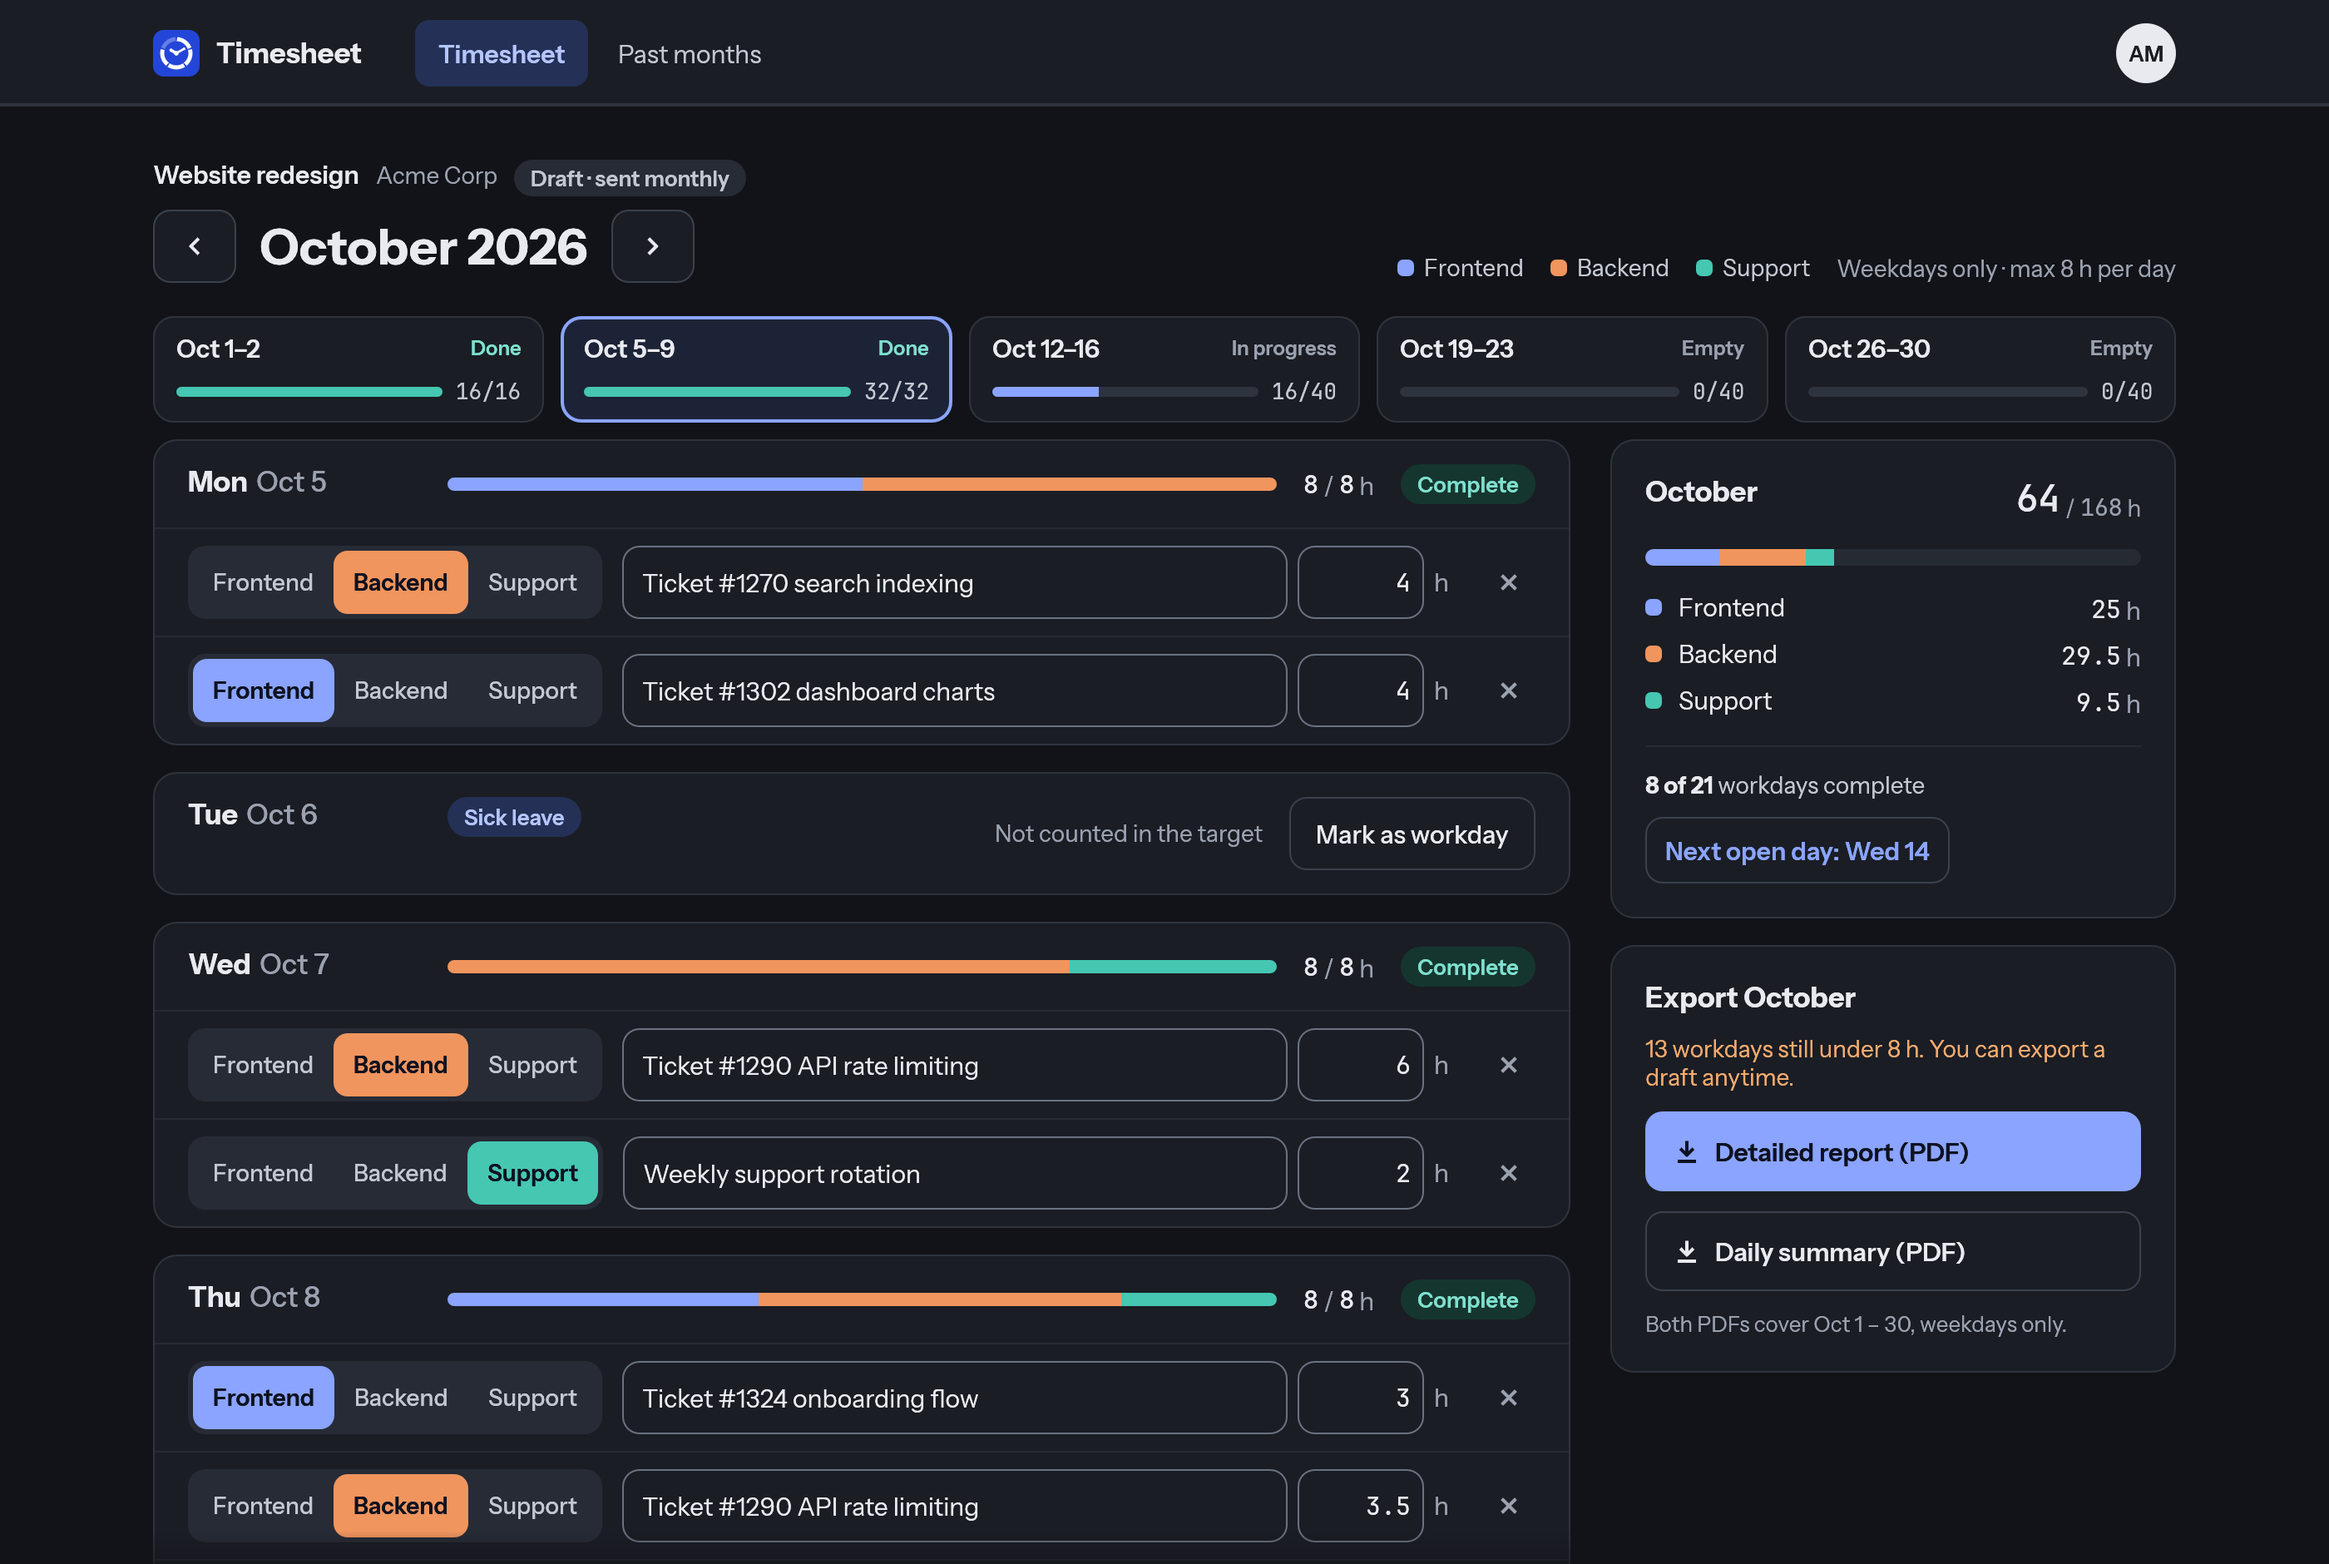
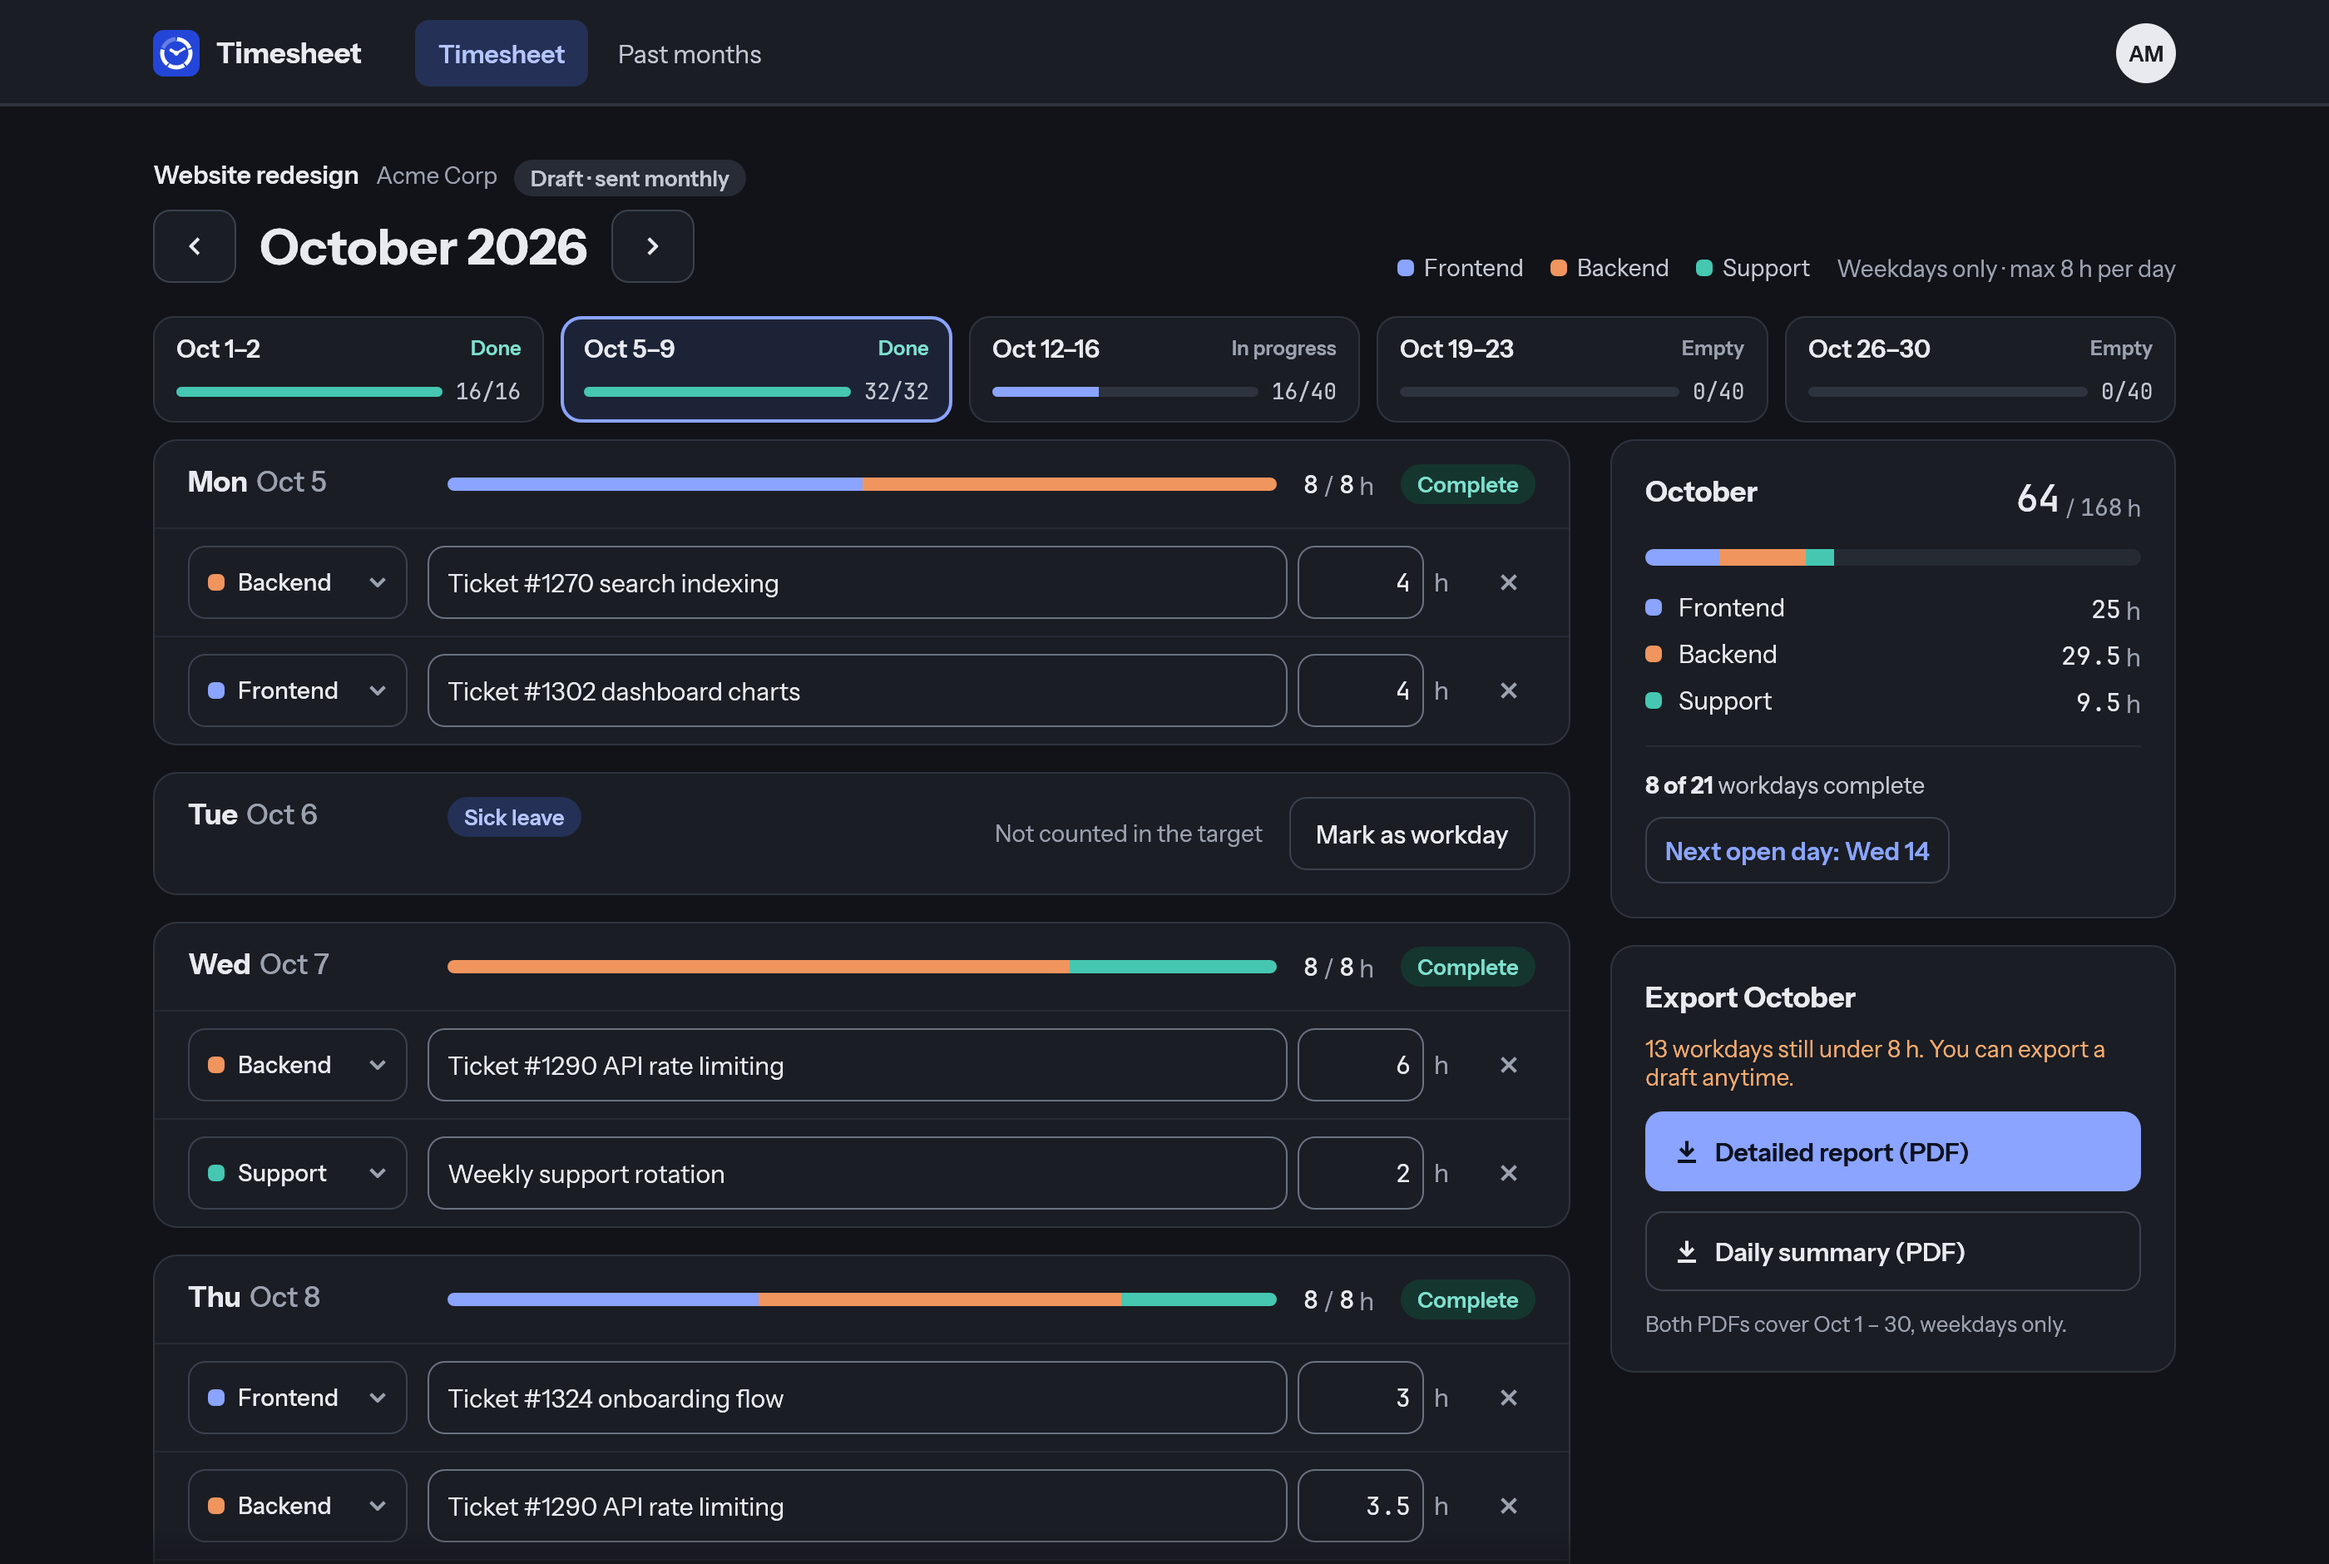
feat(ui): pick a line's task type from a compact menu
Each line showed a three-segment toggle with a solid saturated fill,
which made the timesheet loud. A line now shows a 132 px outline button
with the task type's swatch and name; a click opens a menu of the three
types with a check on the current one. The day bar still shows the mix.

The selected-toggle fills (`kind_toggles`) are no longer used, so they
leave the palette and the contrast test.

Changed region(s): [[0.0621, 0.8638, 0.4039, 0.9872], [0.0621, 0.3394, 0.4039, 0.4628], [0.0932, 0.6479, 0.4039, 0.7713]]

diff --git a/src/ui/widgets.rs b/src/ui/widgets.rs
@@ -591,6 +591,102 @@ pub(super) fn select_field<T: Copy + PartialEq>(
     });
 }
 
+/// 132 px outline button with the task type's swatch and name; a click opens a menu of all task
+/// types. Returns true when the task type changed.
+pub(super) fn kind_menu(
+    ui: &mut Ui,
+    value: &mut Kind,
+    id_salt: impl egui::AsIdSalt,
+    a11y: &str,
+) -> bool {
+    let c = colors(ui);
+    let font = sans(14.0, W::Medium);
+    let (_, rect) = ui.allocate_space(vec2(132.0, 44.0));
+    let response = ui.interact(rect, ui.id().with(id_salt), Sense::click());
+    let open = egui::Popup::is_id_open(ui.ctx(), egui::Popup::default_response_id(&response));
+    response.widget_info(|| {
+        WidgetInfo::labeled(
+            WidgetType::ComboBox,
+            true,
+            format!("{a11y}: {}", value.label()),
+        )
+    });
+    if ui.is_rect_visible(rect) {
+        let p = ui.painter();
+        let fill = if response.hovered() || open {
+            c.bg
+        } else {
+            c.surface
+        };
+        p.rect_filled(rect, 10, fill);
+        p.rect_stroke(
+            rect,
+            10,
+            Stroke::new(1.0, c.button_border),
+            StrokeKind::Inside,
+        );
+        focus_ring(ui, &response, rect, 10);
+        paint_kind_label(p, rect, 12.0, *value, font.clone(), c);
+        Icon::ChevronDown.paint(
+            p,
+            pos2(rect.right() - 18.0, rect.center().y),
+            16.0,
+            c.muted,
+            2.0,
+        );
+    }
+    let mut changed = false;
+    egui::Popup::menu(&response).width(180.0).show(|ui| {
+        ui.spacing_mut().item_spacing.y = 2.0;
+        for kind in Kind::ALL {
+            let selected = *value == kind;
+            let (rect, item) =
+                ui.allocate_exact_size(vec2(ui.available_width(), 36.0), Sense::click());
+            item.widget_info(|| {
+                WidgetInfo::selected(WidgetType::RadioButton, true, selected, kind.label())
+            });
+            let p = ui.painter();
+            if item.hovered() || item.has_focus() {
+                p.rect_filled(rect, 8, c.chip);
+            }
+            paint_kind_label(p, rect, 10.0, kind, font.clone(), c);
+            if selected {
+                Icon::Check.paint(
+                    p,
+                    pos2(rect.right() - 18.0, rect.center().y),
+                    16.0,
+                    c.ink,
+                    2.0,
+                );
+            }
+            if item.on_hover_cursor(CursorIcon::PointingHand).clicked() && !selected {
+                *value = kind;
+                changed = true;
+            }
+        }
+    });
+    response.on_hover_cursor(CursorIcon::PointingHand);
+    changed
+}
+
+/// Task-type swatch followed by its name, `pad` in from the left of `rect`.
+fn paint_kind_label(p: &Painter, rect: Rect, pad: f32, kind: Kind, font: FontId, c: &Palette) {
+    let swatch = Rect::from_min_size(
+        pos2(rect.left() + pad, rect.center().y - 5.0),
+        vec2(10.0, 10.0),
+    );
+    p.rect_filled(swatch, 3, c.kind(kind));
+    let galley = p.layout_no_wrap(kind.label().to_owned(), font, c.ink);
+    p.galley(
+        pos2(
+            swatch.right() + 8.0,
+            rect.center().y - galley.size().y / 2.0,
+        ),
+        galley,
+        c.ink,
+    );
+}
+
 /// Full-width radio group of 36 px segments on a `chip` track; the selected one is raised.
 /// Returns true when the selection changed.
 pub(super) fn segmented<T: Copy + PartialEq>(

diff --git a/src/ui/timesheet.rs b/src/ui/timesheet.rs
@@ -512,40 +512,12 @@ fn day_card(ui: &mut Ui, data: &mut Data, date: NaiveDate, actions: &mut Vec<Act
                 })
                 .show(ui, |ui| {
                     ui.horizontal(|ui| {
-                        // Task type toggle.
-                        Frame::new()
-                            .fill(c.chip)
-                            .corner_radius(10)
-                            .inner_margin(Margin::same(3))
-                            .show(ui, |ui| {
-                                ui.horizontal(|ui| {
-                                    ui.spacing_mut().item_spacing.x = 0.0;
-                                    for kind in Kind::ALL {
-                                        let on = entry.kind == kind;
-                                        let mut b = Btn::base(c, kind.label()).min(0.0, 38.0).font(
-                                            sans(14.0, if on { W::SemiBold } else { W::Medium }),
-                                        );
-                                        b.pad = 12.0;
-                                        b.radius = 8;
-                                        b.a11y = Some(format!(
-                                            "{}, {day_name} line {line_no}",
-                                            kind.label()
-                                        ));
-                                        if on {
-                                            b.fill = c.kind_toggle(kind);
-                                            b.hover_fill = b.fill;
-                                            b.fg = c.on_accent;
-                                        } else {
-                                            b.hover_fill = c.border;
-                                            b.fg = c.ink2;
-                                        }
-                                        if b.show(ui).clicked() && !on {
-                                            entry.kind = kind;
-                                            dirty = true;
-                                        }
-                                    }
-                                });
-                            });
+                        dirty |= kind_menu(
+                            ui,
+                            &mut entry.kind,
+                            ("kind", entry.id),
+                            &format!("Task type, {day_name} line {line_no}"),
+                        );
                         ui.with_layout(Layout::right_to_left(Align::Center), |ui| {
                             let remove = Btn::base(c, "")
                                 .icon(Icon::Close, 16.0)

diff --git a/src/ui/theme.rs b/src/ui/theme.rs
@@ -24,7 +24,7 @@ pub(super) struct Palette {
     pub(super) accent_strong: Color32,
     pub(super) accent_soft: Color32,
     pub(super) accent_tint: Color32,
-    /// Text and icons on `accent`, `ok` and task-type fills.
+    /// Text and icons on `accent` and `ok` fills.
     pub(super) on_accent: Color32,
     pub(super) selection: Color32,
     pub(super) danger: Color32,
@@ -40,8 +40,6 @@ pub(super) struct Palette {
     pub(super) disabled: Color32,
     /// Swatches and bars, in [`Kind::ALL`] order.
     pub(super) kinds: [Color32; 3],
-    /// Fills of selected task-type toggles, in [`Kind::ALL`] order.
-    pub(super) kind_toggles: [Color32; 3],
 }
 
 pub(super) const fn pdf_kind(kind: Kind) -> Color32 {
@@ -88,12 +86,6 @@ pub(super) const LIGHT: Palette = Palette {
         pdf_kind(Kind::Backend),
         pdf_kind(Kind::Support),
     ],
-    // Backend is darkened for white text.
-    kind_toggles: [
-        pdf_kind(Kind::Frontend),
-        hex(0xA44A0C),
-        pdf_kind(Kind::Support),
-    ],
 };
 
 /// Same hues as [`LIGHT`], lightened to read on dark surfaces; fills carry dark text.
@@ -127,7 +119,6 @@ pub(super) const DARK: Palette = Palette {
     warn_border: hex(0x8C5B30),
     disabled: hex(0x6B7180),
     kinds: [hex(0x8AA4FF), hex(0xF0955E), hex(0x45C7B2)],
-    kind_toggles: [hex(0x8AA4FF), hex(0xF0955E), hex(0x45C7B2)],
 };
 
 impl Palette {
@@ -137,10 +128,6 @@ impl Palette {
 
     pub(super) fn kind(&self, kind: Kind) -> Color32 {
         self.kinds[kind as usize]
-    }
-
-    pub(super) fn kind_toggle(&self, kind: Kind) -> Color32 {
-        self.kind_toggles[kind as usize]
     }
 }
 
@@ -343,9 +330,6 @@ mod tests {
                 ] {
                     pairs.push((fg_name, fg, bg_name, bg));
                 }
-            }
-            for kind in Kind::ALL {
-                pairs.push(("on_accent", c.on_accent, kind.label(), c.kind_toggle(kind)));
             }
             for (fg_name, fg, bg_name, bg) in pairs {
                 let ratio = contrast(fg, bg);

diff --git a/src/ui/screenshots.rs b/src/ui/screenshots.rs
@@ -4,10 +4,11 @@
 use std::path::Path;
 
 use chrono::NaiveDate;
-use egui_kittest::Harness;
+use eframe::egui::accesskit::Role;
+use egui_kittest::{Harness, kittest::Queryable as _};
 
 use super::{App, View};
-use crate::model::Appearance;
+use crate::model::{Appearance, Kind};
 
 fn harness(dir: &Path) -> Harness<'static, App> {
     let root = Path::new(env!("CARGO_MANIFEST_DIR"));
@@ -45,4 +46,33 @@ fn screenshots() {
     let mut h = harness(dir.path());
     h.state_mut().settings_draft = Some(h.state().store.data.settings.clone());
     save(&mut h, "settings");
+}
+
+#[test]
+fn task_type_menu_changes_the_line() {
+    let dir = tempfile::tempdir().unwrap();
+    let mut h = harness(dir.path());
+    h.run();
+    h.get_by_role_and_label(Role::ComboBox, "Task type, Monday line 1: Backend")
+        .click();
+    h.run();
+    h.get_by_role_and_label(Role::RadioButton, "Support")
+        .click();
+    h.run();
+
+    let monday = NaiveDate::from_ymd_opt(2026, 10, 12).unwrap();
+    let kinds: Vec<Kind> = h
+        .state()
+        .store
+        .data
+        .entries
+        .iter()
+        .filter(|e| e.date == monday)
+        .map(|e| e.kind)
+        .collect();
+    assert_eq!(kinds, [Kind::Support]);
+    assert!(
+        h.query_by_role_and_label(Role::RadioButton, "Support")
+            .is_none()
+    );
 }
